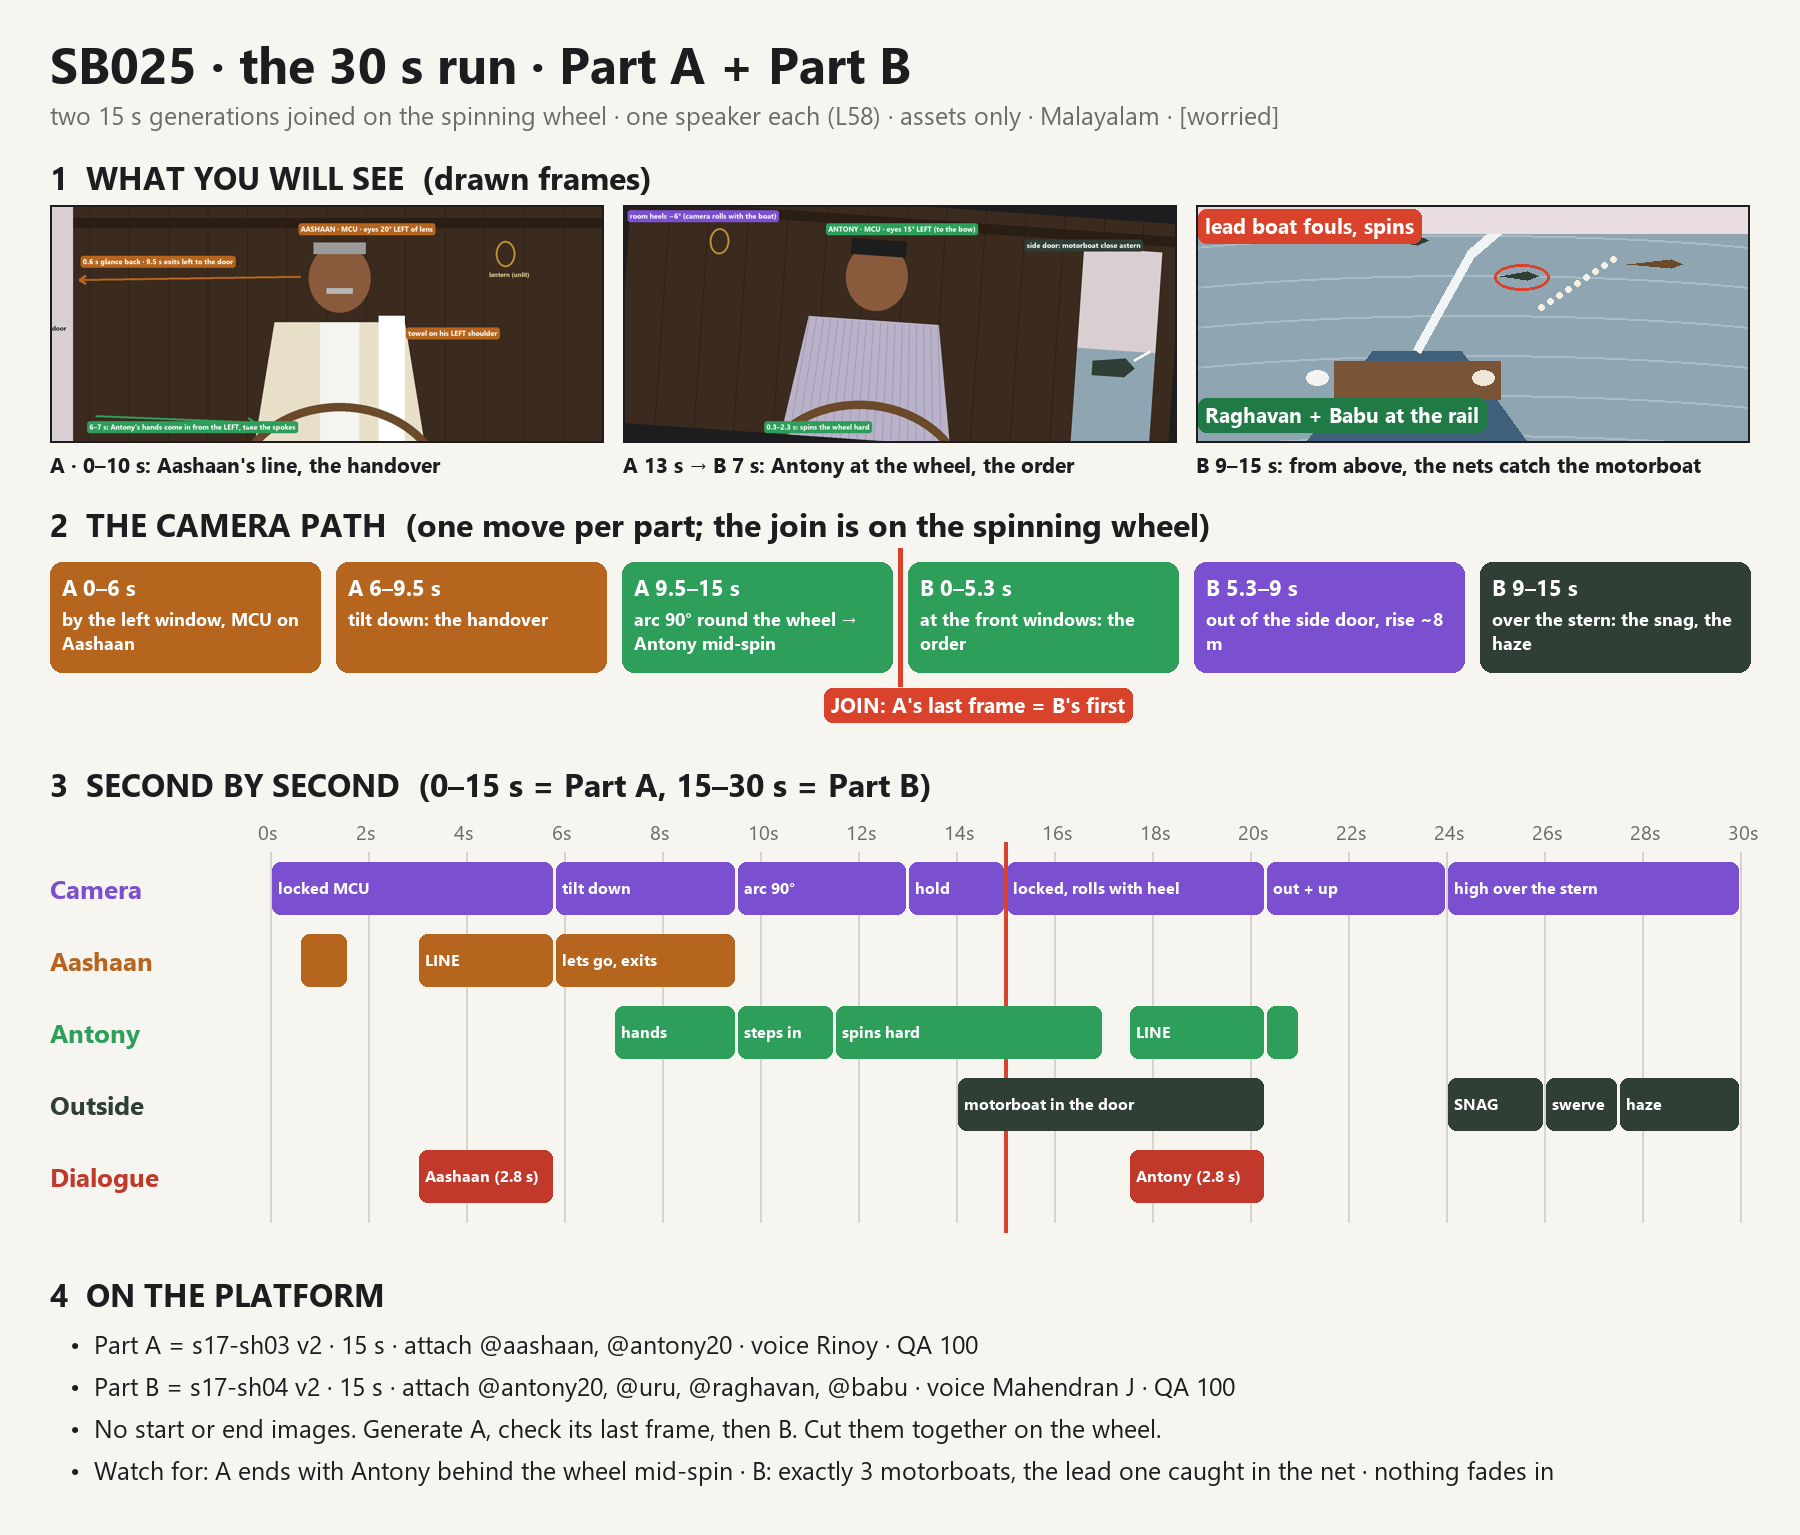
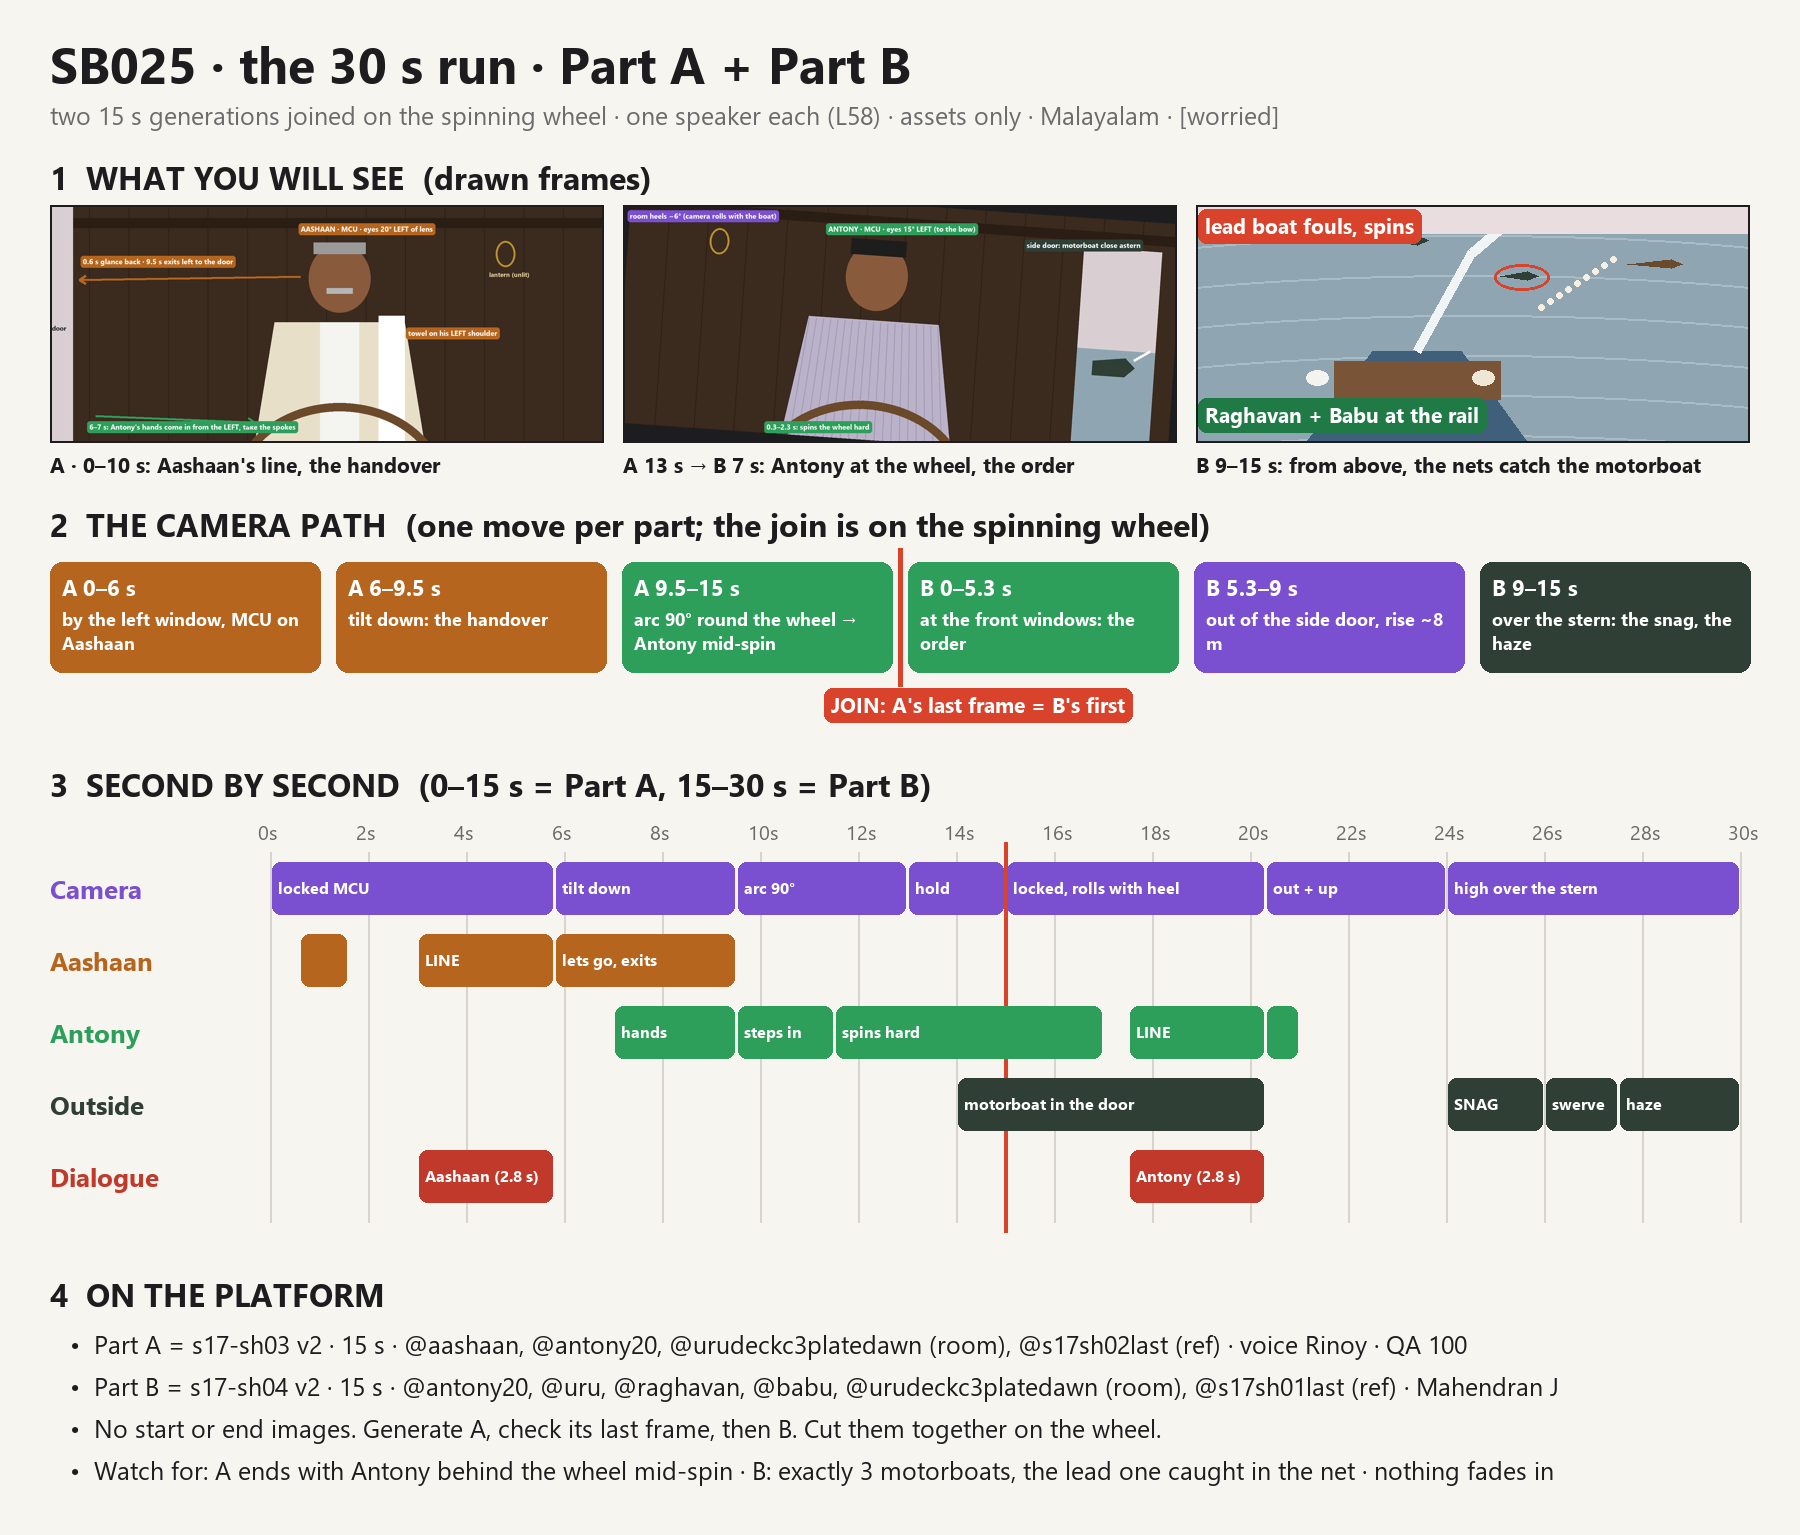
Ranjith: shot: 30 s run carries the dawn wheelhouse plate and the approved frames for continuity

Changed region(s): [[0.2178, 0.8573, 0.84, 0.9186]]

diff --git a/tools/shotsheets/s17-run-30s.py b/tools/shotsheets/s17-run-30s.py
@@ -83,8 +83,8 @@ for i, (lab, col, segs) in enumerate(rows):
 # 4. platform
 y3 = ty + 72 * len(rows) + 60
 d.text((50, y3), "4  ON THE PLATFORM", font=F(32, True), fill=INK)
-lines = ["Part A = s17-sh03 v2 · 15 s · attach @aashaan, @antony20 · voice Rinoy · QA 100",
-         "Part B = s17-sh04 v2 · 15 s · attach @antony20, @uru, @raghavan, @babu · voice Mahendran J · QA 100",
+lines = ["Part A = s17-sh03 v2 · 15 s · @aashaan, @antony20, @urudeckc3platedawn (room), @s17sh02last (ref) · voice Rinoy · QA 100",
+         "Part B = s17-sh04 v2 · 15 s · @antony20, @uru, @raghavan, @babu, @urudeckc3platedawn (room), @s17sh01last (ref) · Mahendran J",
          "No start or end images. Generate A, check its last frame, then B. Cut them together on the wheel.",
          "Watch for: A ends with Antony behind the wheel mid-spin · B: exactly 3 motorboats, the lead one caught in the net · nothing fades in"]
 for i, t in enumerate(lines): d.text((70, y3 + 55 + i * 42), "•  " + t, font=F(25), fill=INK)

diff --git a/scenes/showreel/s17-sh03.md b/scenes/showreel/s17-sh03.md
@@ -9,8 +9,8 @@ Screen direction (L161): Antony looked about 20° right of the lens to Aashaan i
 Dialogue (storyboard SB025, authoritative Manglish: chakram pitikk. njaan munnil nokkaam.): AASHAAN — ചക്രം പിടിക്ക്. ഞാൻ മുന്നിൽ നോക്കാം.
 Voice: Aashaan = **Rinoy** (Professional narrator). Scene emotion: [worried] (one for SB025).
 Lessons applied: L34, L58 (15 s, one speaker), L61, L82 (Antony ends behind the wheel facing the camera), L83 (no statues), L141, L147 (split, not one 30 s take), L159, L160, L161, L163, L166, checklist 190, assets only.
-Attach: `@aashaan` (full, 0–10 s), `@antony20` (full; hands only until 9.5 s, then full). No start image, no end image. Remove every other attachment (L88). **15 s.** 21:9, Malayalam.
-Left out: `@urudeckc3platedawn` (looks forward from the wheel; this shot looks back at it and then sideways, L61); `@s17sh02last` (reverse angle; continuity only).
+Attach: `@aashaan` (full, 0–10 s), `@antony20` (full; hands only until 9.5 s, then full), `@urudeckc3platedawn` (background only: the room), `@s17sh02last` (reference: light and continuity). No start image, no end image. Remove every other attachment (L88). **15 s.** 21:9, Malayalam.
+Continuity assets (Ranjith, 2026-11-21: "make sure wheelhouse, urudecks we created are there"): `@urudeckc3platedawn` and `@s17sh02last` attached with their roles written out (room, materials and light, not the camera angle; L61 handled by the role text). Left out: `@urudeckc1plate` (day main deck, but at the harbour quay); `@wheelhouse` (only on Aswanth's account; replaced by our `@urudeckc3platedawn`).
 Attach folder: `scenes/showreel/attach/s17-sh03/`
 Storyboard: `scenes/showreel/storyboards/s17-run-30s-clear.png` (both parts on one sheet; never attached)
 Edit note (music): the chase score continues, ducked under the line, rising as the spin starts.
@@ -30,6 +30,8 @@ FIRST FRAME (0.0s), the instant after Antony's line: the camera at Antony's plac
 ACTIVE REFERENCES
 @aashaan (full, 0.0s–10.0s): Aashaan, the old skipper, the only speaker: about 60, stocky, deeply sun-darkened weathered skin with lines and spots, tired kind eyes, grey hair combed straight back, a thick grey moustache, short white stubble on the chin and jaw; a cream half-sleeve cotton shirt worn open over a white sleeveless vest, reading spectacles hooked into the vest on his left side, a white cotton towel folded over his LEFT shoulder (on frame right as he faces the camera), a white mundu with a thin grey border. A native Kollam coastal Malayalam speaker; a deep, rough, unhurried older male voice. 100% matches the reference.
 @antony20 (hands only 6.0s–9.5s, full 9.5s–15.0s): Antony, a young Kerala man about 22, round youthful clean-shaven face, short black hair combed back with a few loose strands, the lavender-grey and white thin vertical striped short-sleeve shirt with the sleeves rolled once, a thin silver chain, the grey-green checked mundu, barefoot. He never speaks in this shot. 100% matches the reference.
+@urudeckc3platedawn (background only, 0.0s–15.0s): our wheelhouse at this same dawn, exactly as on this plate: the dark carved wooden walls and panels, the open side door onto the blue side deck, the large glass front windows in dark wooden frames, the spoked wheel, the pink-grey light. The plate looks forward from beside the wheel; this shot looks back at the wheel and then aft, so take the room, the materials and the light from it, not its camera angle. 100% matches the reference.
+@s17sh02last (reference for continuity, 0.0s): the last frame of the shot before: Antony by the left front window looking toward Aashaan, the same room, the same hazy pink-grey dawn. Take the light, the room and Antony's look from it, not its framing; this shot is the reverse angle. 100% matches the reference.
 
 THE WHEEL
 One wooden ship's wheel about 90 cm across, dark teak worn pale where hands grip it, eight spokes ending in turned handles, a dull brass hub, on a square timber pedestal about 1 m high. It is the only wheel and it stays here inside the wheelhouse. Aashaan's hands: his RIGHT hand on the handle at about eleven o'clock, his LEFT hand at about one o'clock. At 6.0s his hands lift off; at 7.0s Antony's two hands close on the same handles. From 11.5s Antony spins it hard, hand over hand, the top of the wheel moving to his right, the spokes blurring.
@@ -96,7 +98,7 @@ INTENT: When @aashaan says "ചക്രം പിടിക്ക്. ഞാൻ 
 - Aspect ratio 21:9
 - No start image, no end image (assets only)
 - Dialogue language: Malayalam · Aashaan's voice: **Rinoy**
-- Attach: `@aashaan` (full), `@antony20` (full; hands only until 9.5 s)
+- Attach: `@aashaan` (full), `@antony20` (full; hands only until 9.5 s), `@urudeckc3platedawn` (background only), `@s17sh02last` (reference)
 - Music: none in the generation; the chase score continues in the edit
 
 ## QC

diff --git a/scenes/showreel/attach/s17-sh03/README.md b/scenes/showreel/attach/s17-sh03/README.md
@@ -1,3 +1,5 @@
 # s17-sh03 v2 = PART A of the 30 s run (assets only, no start image)
 - 01-aashaan.jpg → @aashaan (full)
 - 02-antony20.jpg → @antony20 (full; hands only until 9.5 s)
+- 03-urudeckc3platedawn.png → @urudeckc3platedawn (background only: the room)
+- 04-s17sh02last.jpg → @s17sh02last (reference: light and continuity)

diff --git a/scenes/showreel/attach/s17-sh04/README.md b/scenes/showreel/attach/s17-sh04/README.md
@@ -3,3 +3,5 @@
 - 02-uru.png → @uru (full)
 - 03-raghavan.png → @raghavan (full)
 - 04-babu.png → @babu (full)
+- 05-urudeckc3platedawn.png → @urudeckc3platedawn (background only: the room)
+- 06-s17sh01last.jpg → @s17sh01last (reference: boats, crew, sea, light)
